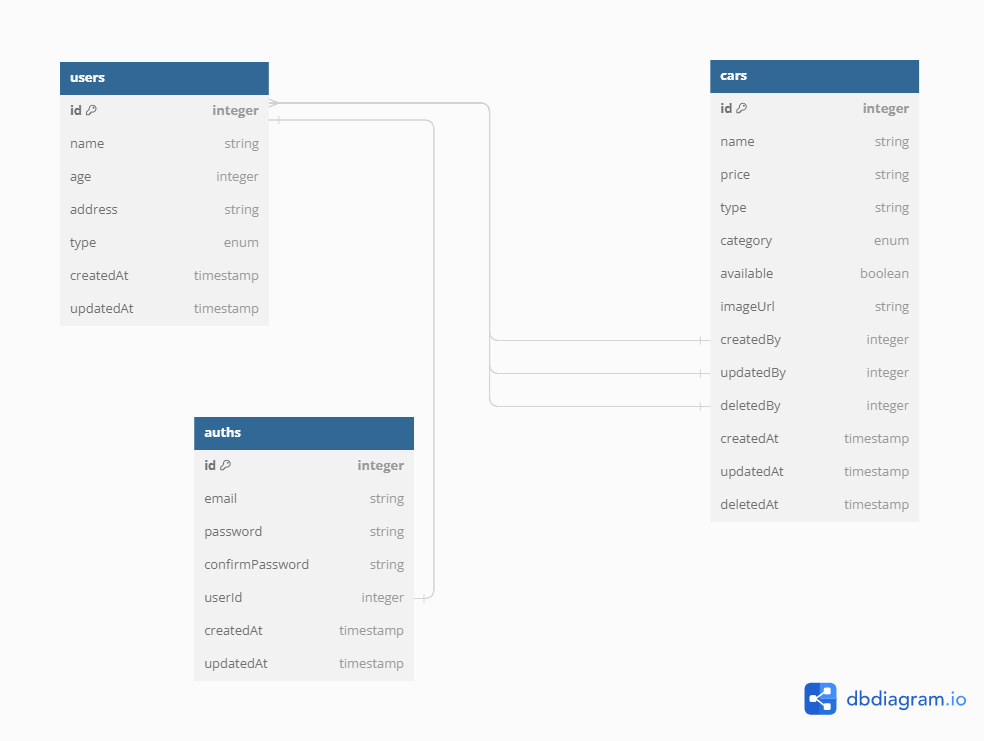
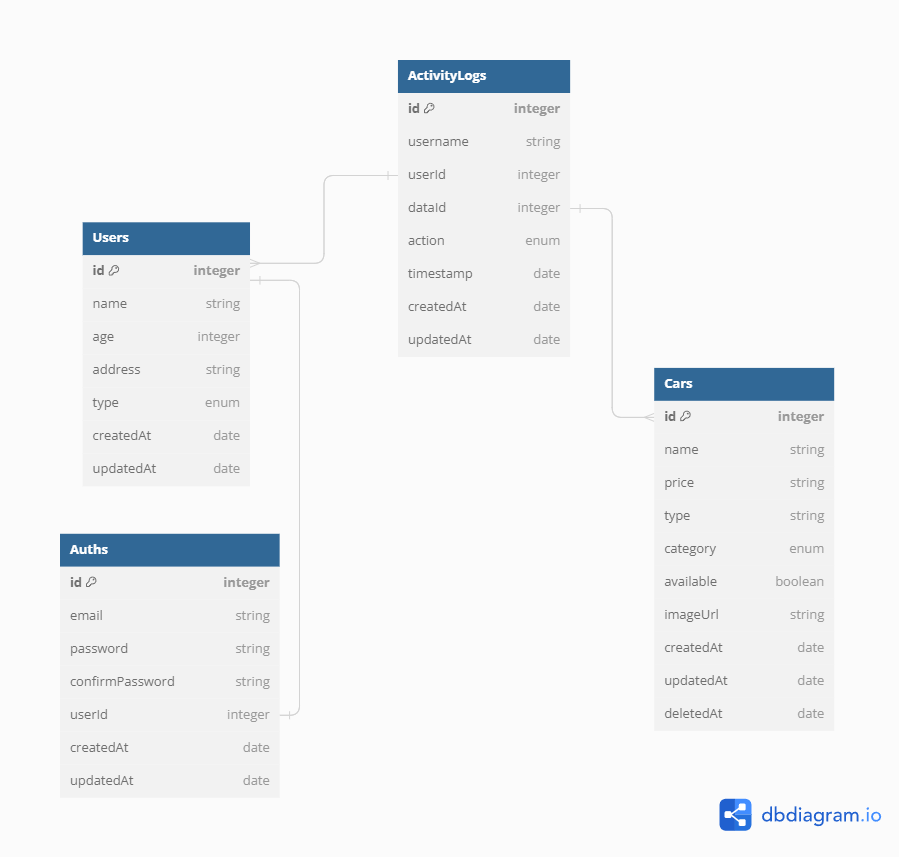
updated table realation and user crud auth

diff --git a/controller/carController.js b/controller/carController.js
@@ -1,4 +1,4 @@
-const { Car } = require("../models");
+const { Car, ActivityLog } = require("../models");
 const imagekit = require("../lib/imagekit");
 const ApiError = require("../utils/apiError");
 const Sequelize = require("sequelize");
@@ -42,6 +42,14 @@ const createCar = async (req, res, next) => {
       imageUrl: img,
     });
 
+    await ActivityLog.create({
+      username: req.user.name,
+      userId: req.user.id,
+      dataId: newCar.id,
+      action: "create",
+      timestamp: new Date(),
+    });
+
     res.status(200).json({
       status: "Success",
       data: {
@@ -71,7 +79,7 @@ const findCars = async (req, res, next) => {
     const cars = await Car.findAll({
       where: condition,
       paranoid: false,
-      include: ["creator", "updater", "deleter"],
+      include: ["ActivityLogs"],
     });
 
     res.status(200).json({
@@ -91,7 +99,7 @@ const findCarById = async (req, res, next) => {
       where: {
         id: req.params.id,
       },
-      include: ["User"],
+      include: ["ActivityLogs"],
     });
 
     if (car === null) {
@@ -104,7 +112,7 @@ const findCarById = async (req, res, next) => {
     res.status(200).json({
       status: "Success",
       data: {
-        Car,
+        car,
       },
     });
   } catch (err) {
@@ -141,14 +149,13 @@ const updateCar = async (req, res, next) => {
       img = uploadedImage.url;
     }
 
-    await Car.update(
+    const newCar = await Car.update(
       {
         name,
         price,
         type,
         category,
         available,
-        updatedBy: req.user.id,
         imageUrl: img,
       },
       {
@@ -157,6 +164,14 @@ const updateCar = async (req, res, next) => {
         },
       }
     );
+
+    await ActivityLog.create({
+      username: req.user.name,
+      userId: req.user.id,
+      dataId: req.params.id,
+      action: "update",
+      timestamp: new Date(),
+    });
 
     res.status(200).json({
       status: "Success",
@@ -180,16 +195,13 @@ const deleteCar = async (req, res, next) => {
       return next(new ApiError("Car id tersebut gak ada", 404));
     }
 
-    await Car.update(
-      {
-        deletedBy: req.user.id,
-      },
-      {
-        where: {
-          id: req.params.id,
-        },
-      }
-    );
+    await ActivityLog.create({
+      username: req.user.name,
+      userId: req.user.id,
+      dataId: car.id,
+      action: "delete",
+      timestamp: new Date(),
+    });
 
     await Car.destroy({
       where: {

diff --git a/models/activitylog.js b/models/activitylog.js
@@ -1,7 +1,7 @@
 "use strict";
 const { Model } = require("sequelize");
 module.exports = (sequelize, DataTypes) => {
-  class Car extends Model {
+  class ActivityLog extends Model {
     /**
      * Helper method for defining associations.
      * This method is not a part of Sequelize lifecycle.
@@ -9,27 +9,31 @@ module.exports = (sequelize, DataTypes) => {
      */
     static associate(models) {
       // define association here
-      Car.hasMany(models.ActivityLog, {
+      ActivityLog.belongsTo(models.Car, {
         foreignKey: {
           name: "dataId",
         },
       });
+
+      ActivityLog.belongsTo(models.User, {
+        foreignKey: {
+          name: "userId",
+        },
+      });
     }
   }
-  Car.init(
+  ActivityLog.init(
     {
-      name: DataTypes.STRING,
-      price: DataTypes.INTEGER,
-      type: DataTypes.STRING,
-      category: DataTypes.ENUM(["small", "medium", "large"]),
-      available: DataTypes.BOOLEAN,
-      imageUrl: DataTypes.STRING,
+      username: DataTypes.STRING,
+      userId: DataTypes.INTEGER,
+      dataId: DataTypes.INTEGER,
+      action: DataTypes.ENUM * ["create", "update", "delete"],
+      timestamp: DataTypes.DATE,
     },
     {
       sequelize,
-      paranoid: true,
-      modelName: "Car",
+      modelName: "ActivityLog",
     }
   );
-  return Car;
+  return ActivityLog;
 };

diff --git a/migrations/20231021101547-create-activity-log.js b/migrations/20231021101547-create-activity-log.js
@@ -1,0 +1,40 @@
+"use strict";
+/** @type {import('sequelize-cli').Migration} */
+module.exports = {
+  async up(queryInterface, Sequelize) {
+    await queryInterface.createTable("ActivityLogs", {
+      id: {
+        allowNull: false,
+        autoIncrement: true,
+        primaryKey: true,
+        type: Sequelize.INTEGER,
+      },
+      username: {
+        type: Sequelize.STRING,
+      },
+      userId: {
+        type: Sequelize.INTEGER,
+      },
+      dataId: {
+        type: Sequelize.INTEGER,
+      },
+      action: {
+        type: Sequelize.ENUM(["create", "update", "del"]),
+      },
+      timestamp: {
+        type: Sequelize.DATE,
+      },
+      createdAt: {
+        allowNull: false,
+        type: Sequelize.DATE,
+      },
+      updatedAt: {
+        allowNull: false,
+        type: Sequelize.DATE,
+      },
+    });
+  },
+  async down(queryInterface, Sequelize) {
+    await queryInterface.dropTable("ActivityLogs");
+  },
+};

diff --git a/middlewares/checkAccountOwner.js b/middlewares/checkAccountOwner.js
@@ -1,20 +1,22 @@
 const ApiError = require("../utils/apiError");
 
-const checkOwner = async (req, res, next) => {
-  try {
-    if (req.user.id == req.params.id || req.user.type == "superadmin") {
-      return next();
-    } else {
-      return next(
-        new ApiError(
-          `cannot access because you're not this account's owner`,
-          401
-        )
-      );
+const checkOwner = (role) => {
+  return async (req, res, next) => {
+    try {
+      if (req.user.id == req.params.id || role.includes(req.user.type)) {
+        next();
+      } else {
+        return next(
+          new ApiError(
+            `cannot access because you're not this account's owner`,
+            401
+          )
+        );
+      }
+    } catch (err) {
+      next(new ApiError(err.message, 500));
     }
-  } catch (err) {
-    next(new ApiError(err.message, 500));
-  }
+  };
 };
 
 module.exports = checkOwner;

diff --git a/routes/userRouter.js b/routes/userRouter.js
@@ -13,7 +13,7 @@ router.patch(
   "/member/:id",
   checkId(User),
   authenticate,
-  checkOwner,
+  checkOwner(["superadmin", "admin"]),
   user.updateUser
 );
 router.patch(
@@ -21,8 +21,22 @@ router.patch(
   checkId(User),
   authenticate,
   checkRole("superadmin"),
+  checkOwner(["superadmin"]),
   user.updateUser
 );
-router.delete("/:id", checkId(User), authenticate, checkOwner, user.deleteUser);
+router.delete(
+  "/admin/:id",
+  checkId(User),
+  authenticate,
+  checkOwner(["superadmin"]),
+  user.deleteUser
+);
+router.delete(
+  "/member/:id",
+  checkId(User),
+  authenticate,
+  checkOwner(["superadmin", "admin"]),
+  user.deleteUser
+);
 
 module.exports = router;

diff --git a/migrations/20231020034224-create-car.js b/migrations/20231020034224-create-car.js
@@ -38,15 +38,6 @@ module.exports = {
         defaultValue:
           "https://tse2.mm.bing.net/th?id=OIP.U2iQ7wNK6ZzTW_traW_-PQHaHa&pid=Api&P=0&h=180",
       },
-      createdBy: {
-        type: Sequelize.INTEGER,
-      },
-      updatedBy: {
-        type: Sequelize.INTEGER,
-      },
-      deletedBy: {
-        type: Sequelize.INTEGER,
-      },
       createdAt: {
         allowNull: false,
         type: Sequelize.DATE,

diff --git a/middlewares/checkRole.js b/middlewares/checkRole.js
@@ -3,7 +3,7 @@ const ApiError = require("../utils/apiError");
 const checkRole = (types) => {
   return async (req, res, next) => {
     try {
-      if (types.include(req.user.type)) {
+      if (types.includes(req.user.type)) {
         next();
       } else {
         next(new ApiError(`cannot access because you're not an admin`, 401));

diff --git a/models/user.js b/models/user.js
@@ -15,6 +15,12 @@ module.exports = (sequelize, DataTypes) => {
           allowNull: false,
         },
       });
+
+      User.hasMany(models.ActivityLog, {
+        foreignKey: {
+          name: "userId",
+        },
+      });
     }
   }
   User.init(

diff --git a/readme.md b/readme.md
@@ -52,5 +52,4 @@ http://localhost:PORT/api/docs
 
 1. Endpoint CRUD Cars hanya dapat diakses oleh admin/superadmin
 2. Endpoint register admin hanya dapat diakses oleh superadmin
-3.
-4.
+3. Yang dapat edit/delete data user hanyalah user yang memiliki akun tersebut atau user yang memiliki role yang lebih tinggi
